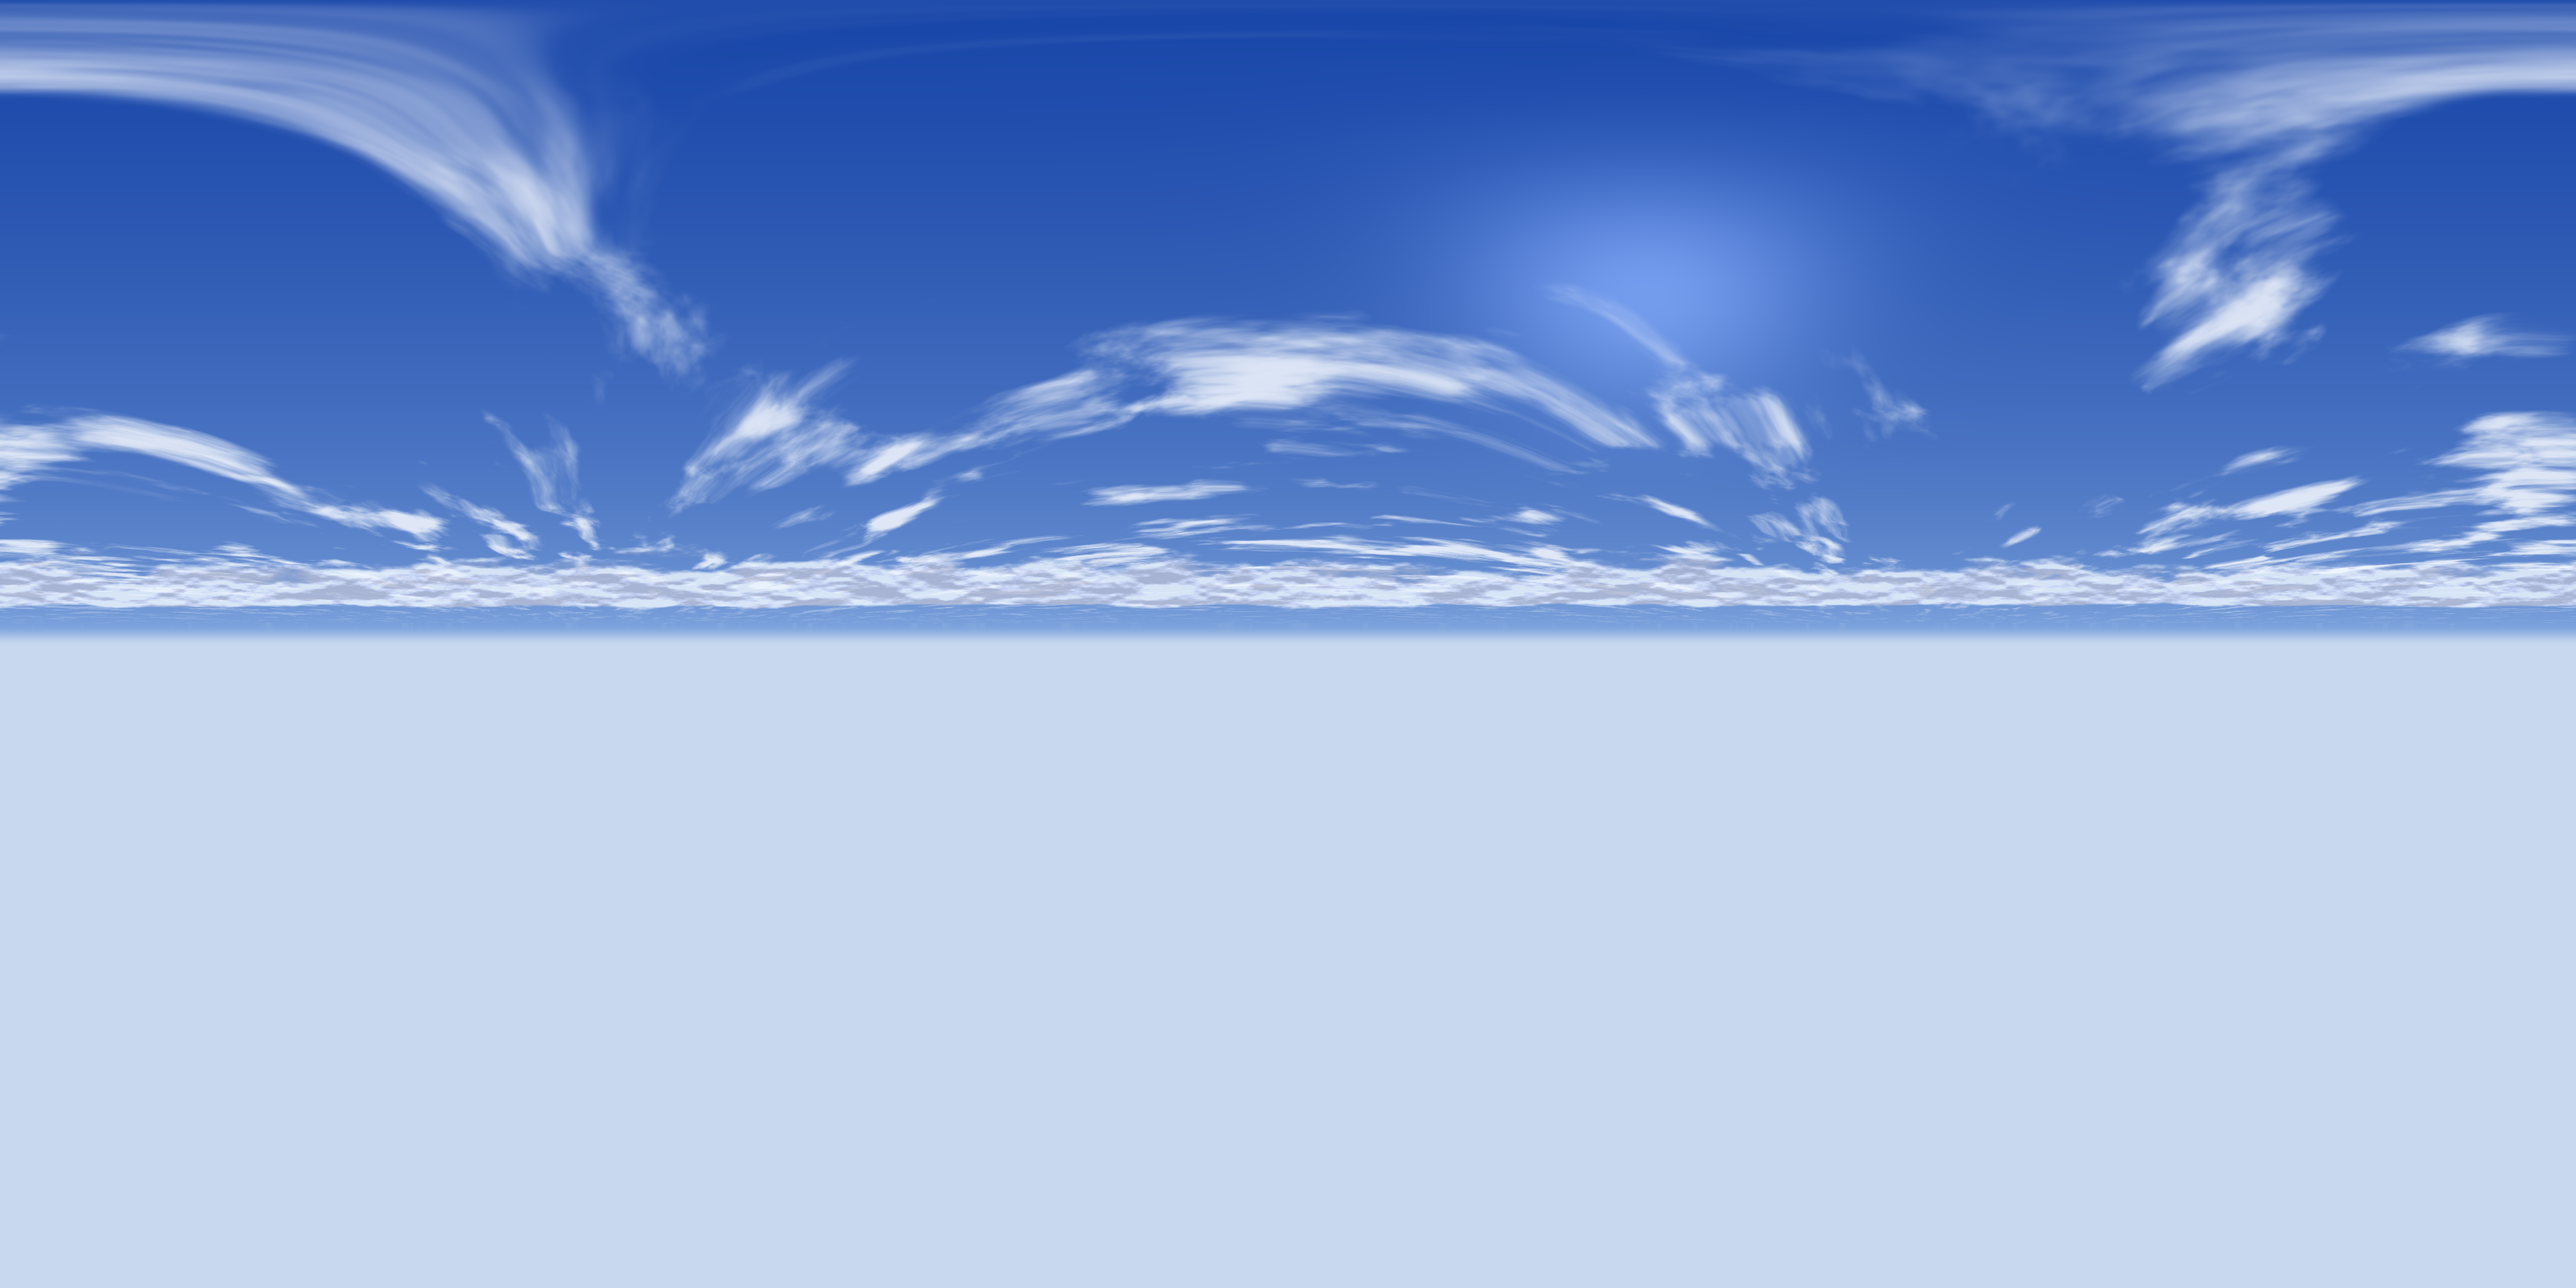
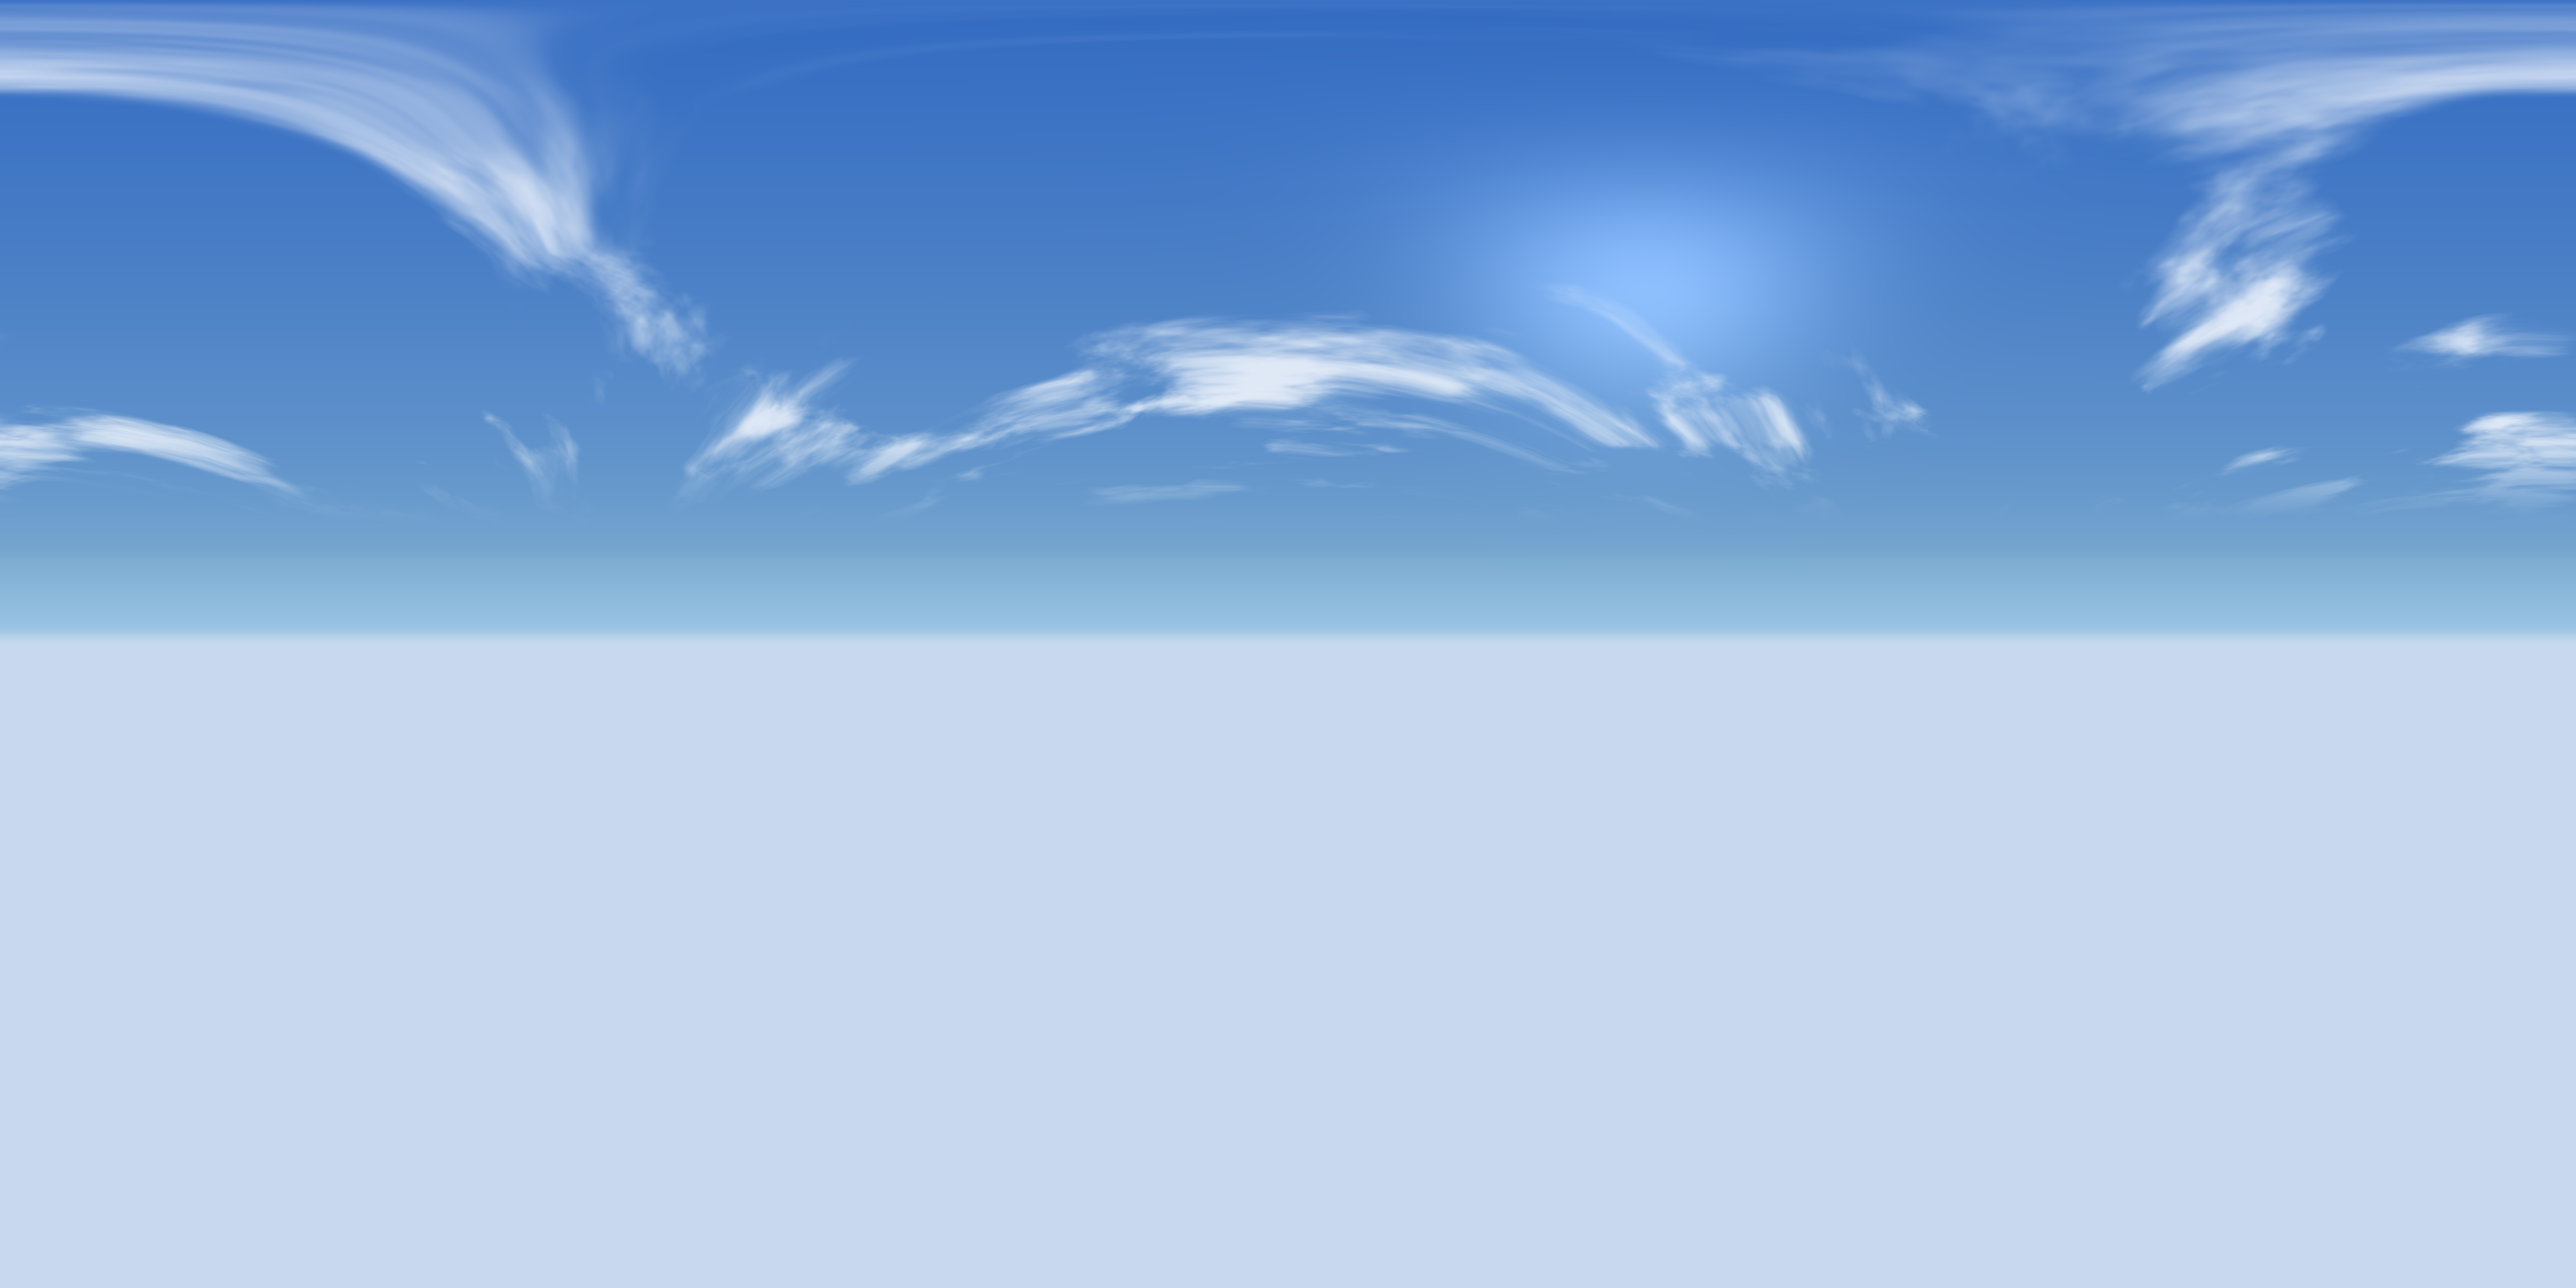
The photo keeps its own sky; the painted sky carries on from it; fix white edges
- The backdrop picture is no longer keyed: it keeps its real blue sky, whose top edge fades into
  the game sky. Tools/MakeSky.swift repaints the sky in the photo's measured colours (horizon to
  0.21 rad), deepening to the zenith, with the wispy cloud only well above the mountain and no
  low cloud bank
- Tools/MakePhotoBand.swift and MakeSky.swift saved their pixels as if premultiplied, so every
  semi-transparent pixel came out white: the faded top edge showed as a pale band (turned into a
  rainbow by the lens's colour fringing), and the feathered ends had white halos. Saved as
  straight alpha now
- Autoplay device builds also save screenshots (Documents/auto-*.png) for checking on the phone

diff --git a/Tools/MakeSky.swift b/Tools/MakeSky.swift
@@ -115,7 +115,7 @@ func mountain(_ r: Range, _ az: Double, _ e: Double, top: Double) -> C {
 
 func savePNG(_ px: [UInt8], _ w: Int, _ h: Int, _ path: String) {
     let rep = NSBitmapImageRep(bitmapDataPlanes: nil, pixelsWide: w, pixelsHigh: h, bitsPerSample: 8, samplesPerPixel: 4, hasAlpha: true,
-                               isPlanar: false, colorSpaceName: .deviceRGB, bytesPerRow: w * 4, bitsPerPixel: 32)!
+                               isPlanar: false, colorSpaceName: .deviceRGB, bitmapFormat: .alphaNonpremultiplied, bytesPerRow: w * 4, bitsPerPixel: 32)!
     px.withUnsafeBufferPointer { memcpy(rep.bitmapData!, $0.baseAddress!, w * h * 4) }
     try! rep.representation(using: .png, properties: [:])!.write(to: URL(fileURLWithPath: path))
     print("wrote", path)
@@ -147,19 +147,23 @@ for j in 0..<H {
     for i in 0..<W {
         let az = (Double(i) + 0.5) / Double(W) * 2 * PI
         let dx = cos(e) * sin(az), dy = sin(e), dz = cos(e) * cos(az)
-        var c = mix(horizon, zenith, pow(max(0, e) / (PI / 2), 0.42))
+        // the colours of the backdrop photo's own sky (Tools/art/rainier-edit.jpg, measured row by row): it covers
+        // up to 0.21 rad, and this carries on from it, deepening to the zenith
+        let photoHorizon = C(r: 0.628, g: 0.787, b: 0.906), photoTop = C(r: 0.489, g: 0.674, b: 0.820)
+        var c: C
+        if e <= 0.21 { c = mix(photoHorizon, photoTop, max(-0.7, e) / 0.21) }
+        else { c = mix(photoTop, C(r: 0.20, g: 0.42, b: 0.76), pow((e - 0.21) / (PI / 2 - 0.21), 0.6)) }
         let sunDot = max(0, dx * sunDir.x + dy * sunDir.y + dz * sunDir.z)
         c = c + C(r: 1, g: 0.95, b: 0.85) * (0.25 * pow(sunDot, 24))
-        if e > 0.02 {
-            // high wispy cloud, seen in perspective on a ceiling
+        if e > 0.25 {
+            // high wispy cloud, seen in perspective on a ceiling: only well above the mountain, so the photo's
+            // clear sky meets plain sky
             let k = 1 / max(0.05, dy)
             let cx = dx * k * 1.2, cz = dz * k * 1.2
             let warp = fbm(cx * 0.6, cz * 0.6, 51, 4)
             let wisp = fbm(cx * 0.9 + warp * 1.8, cz * 2.6 + warp, 53, 6)
-            c = mix(c, C(r: 0.97, g: 0.98, b: 1.0), ss(0.52, 0.78, wisp) * ss(0.02, 0.18, e) * 0.85)
+            c = mix(c, C(r: 0.97, g: 0.98, b: 1.0), ss(0.52, 0.78, wisp) * ss(0.28, 0.55, e) * 0.85)
         }
-        let (bc, bd) = bank(az, e, 0.10, 0.22, 61, 0.8)        // big cumulus behind the peaks
-        c = mix(c, bc, bd)
         c = mix(c, haze, ss(0.045, -0.005, e) * 0.92)         // the valley lost in the fog's haze
         put(&px, (j * W + i) * 4, c, 1)
     }

diff --git a/Tools/MakePhotoBand.swift b/Tools/MakePhotoBand.swift
@@ -63,7 +63,8 @@ for j in 0..<H {
 // shadows in the snow are never punched out
 var seen = [Bool](repeating: false, count: W * H)
 var stack = [Int]()
-for i in 0..<W where skyMask[i] > 0.3 { stack.append(i); seen[i] = true }
+// (an edited picture keeps its own sky: the game's sky is painted to carry on from it)
+if !edited { for i in 0..<W where skyMask[i] > 0.3 { stack.append(i); seen[i] = true } }
 while let k = stack.popLast() {
     alpha[k] = 1 - skyMask[k]
     let i = k % W, j = k / W
@@ -84,6 +85,7 @@ for j in 0..<H {
         a /= n
         let u = Double(i) / Double(W - 1)
         a *= ss(0.0, 0.07, u) * ss(1.0, 0.93, u)
+        if edited { a *= ss(0.0, 0.12, Double(j) / Double(H)) }   // the top of its sky melts into the painted sky
         let (r, g, b) = cols[j * W + i]
         let o = (j * W + i) * 4
         out[o] = UInt8(max(0, min(255, r * 255))); out[o + 1] = UInt8(max(0, min(255, g * 255)))
@@ -127,7 +129,7 @@ if edited {
     }
     print("edited: \(W)x\(H2), the picture is the top \(H) rows, haze below")
     let rep = NSBitmapImageRep(bitmapDataPlanes: nil, pixelsWide: W, pixelsHigh: H2, bitsPerSample: 8, samplesPerPixel: 4, hasAlpha: true,
-                               isPlanar: false, colorSpaceName: .deviceRGB, bytesPerRow: W * 4, bitsPerPixel: 32)!
+                               isPlanar: false, colorSpaceName: .deviceRGB, bitmapFormat: .alphaNonpremultiplied, bytesPerRow: W * 4, bitsPerPixel: 32)!
     ext.withUnsafeBufferPointer { memcpy(rep.bitmapData!, $0.baseAddress!, W * H2 * 4) }
     try! rep.representation(using: .png, properties: [:])!.write(to: URL(fileURLWithPath: outPath))
     print("wrote", outPath)
@@ -188,7 +190,7 @@ for j in (Hs - blend)..<H2 {
 }
 print("extended to \(W)x\(H2): the photo is the top \(H) rows")
 let rep = NSBitmapImageRep(bitmapDataPlanes: nil, pixelsWide: W, pixelsHigh: H2, bitsPerSample: 8, samplesPerPixel: 4, hasAlpha: true,
-                           isPlanar: false, colorSpaceName: .deviceRGB, bytesPerRow: W * 4, bitsPerPixel: 32)!
+                           isPlanar: false, colorSpaceName: .deviceRGB, bitmapFormat: .alphaNonpremultiplied, bytesPerRow: W * 4, bitsPerPixel: 32)!
 ext.withUnsafeBufferPointer { memcpy(rep.bitmapData!, $0.baseAddress!, W * H2 * 4) }
 try! rep.representation(using: .png, properties: [:])!.write(to: URL(fileURLWithPath: outPath))
 print("wrote", outPath)

diff --git a/Assets/Summit/Scripts/SummitGame.cs b/Assets/Summit/Scripts/SummitGame.cs
@@ -414,6 +414,7 @@ namespace Summit
                 case State.Ready:
                     traceT = 0f;
                     if (autoplay && (readyT += dt) > 3f) { readyT = 0f; ToRiding(); }
+                    else if (autoplay && readyT > 2f && readyT - dt <= 2f) ScreenCapture.CaptureScreenshot("auto-ready.png");
                     else if (input.AnyPress() && ModeTapped()) { }
                     else if (input.AnyPress() && RiderTapped()) { }
                     else if (input.AnyPress() && (Tapped(true) || SpacePressed())) { audioFx.Play(Sfx.Play); ToRiding(); }
@@ -480,7 +481,10 @@ namespace Summit
             if (autoplay && state == State.Riding && traceT < 16f)
             {
                 // device testing: launched with SUMMIT_AUTOPLAY=1 the game starts runs by itself and logs the first seconds
+                float before = traceT;
                 traceT += dt; traceNext -= dt;
+                foreach (float at in new[] { 3f, 7.6f, 8.4f, 10f, 14f })
+                    if (before < at && traceT >= at) ScreenCapture.CaptureScreenshot("auto-" + at.ToString("0.0") + ".png");
                 if (traceNext <= 0f)
                 {
                     traceNext = 0.25f;
